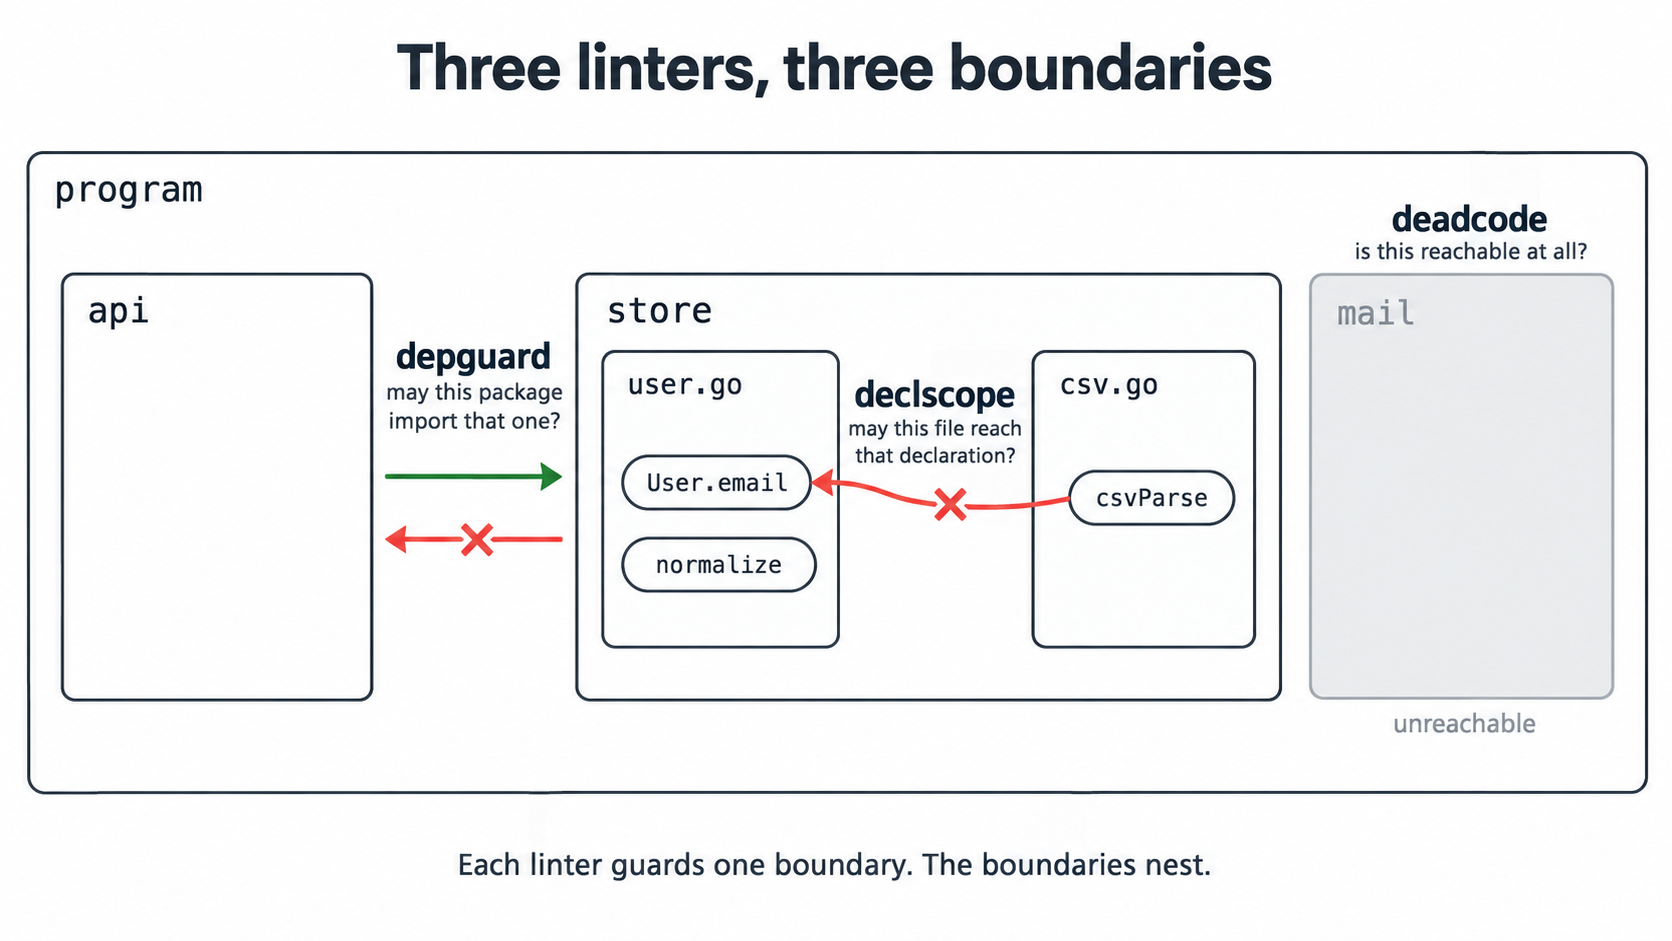
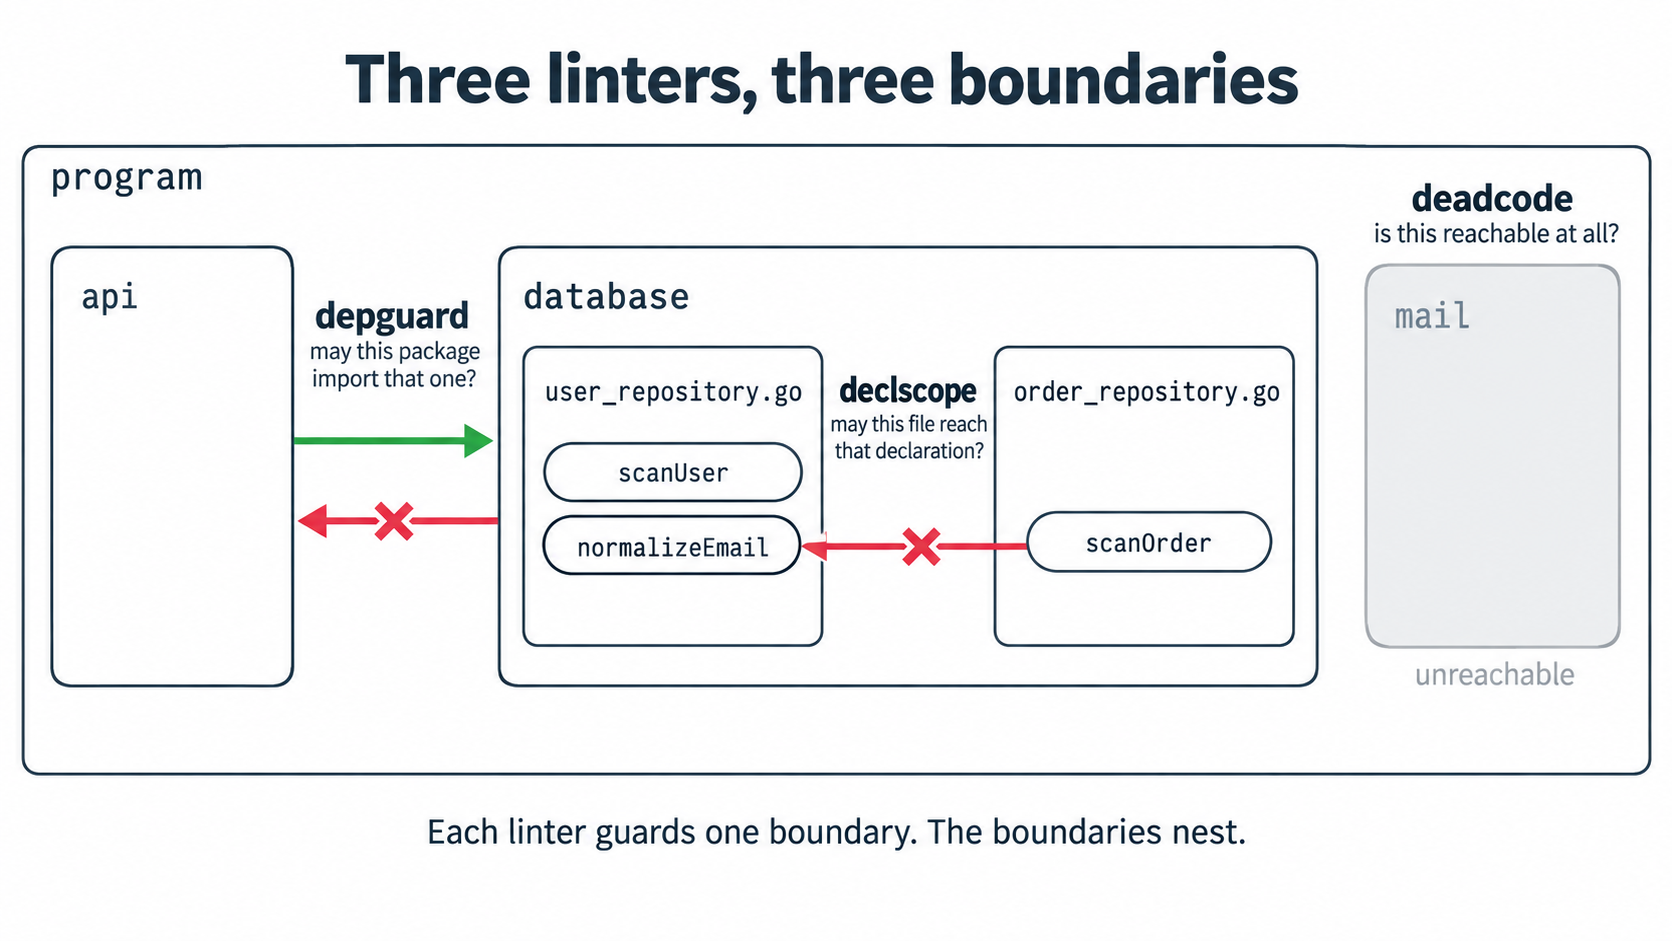
docs: 図を新しい例に合わせて描き直す (#80)
README の例を `database` パッケージに差し替えたが，図だけが旧例
（`store` / `user.go` / `csv.go` / `User.email`）を描いたままだった。
本文と図で登場人物が食い違っていたので，図を描き直して alt テキストも
合わせた。

越境の矢印は `scanOrder` から `normalizeEmail` へ向かう。使用側から
宣言側へ，という向きである。

Changed region(s): [[0.0, 0.1541, 0.9952, 0.9554], [0.1866, 0.0308, 0.7775, 0.1233]]

diff --git a/README.md b/README.md
@@ -132,7 +132,7 @@ The decision now sits in the source, where the next reader finds it.
 
 Three linters draw boundaries in Go, at three scales.
 
-![A Go program drawn as nested frames. Between the api and store packages, depguard asks whether one package may import another; a green arrow runs from api to store and a red one back from store to api is crossed out. Inside store, between user.go and csv.go, declscope asks whether one file may reach another's declaration; a red arrow from csvParse to User.email is crossed out. At the edge of the program, deadcode asks whether anything is reachable at all; the mail package sits greyed out with no arrow entering it, captioned unreachable.](docs/boundaries.png)
+![A Go program drawn as nested frames. Between the api and database packages, depguard asks whether one package may import another. A green arrow runs from api to database, and a red one back from database to api is crossed out. Inside database, between user_repository.go and order_repository.go, declscope asks whether one file may reach another's declaration. A red arrow from scanOrder to normalizeEmail is crossed out. At the edge of the program, deadcode asks whether anything is reachable at all. The mail package sits greyed out with no arrow entering it, captioned unreachable.](docs/boundaries.png)
 
 | Linter | Scale | The question it answers |
 | --- | --- | --- |
